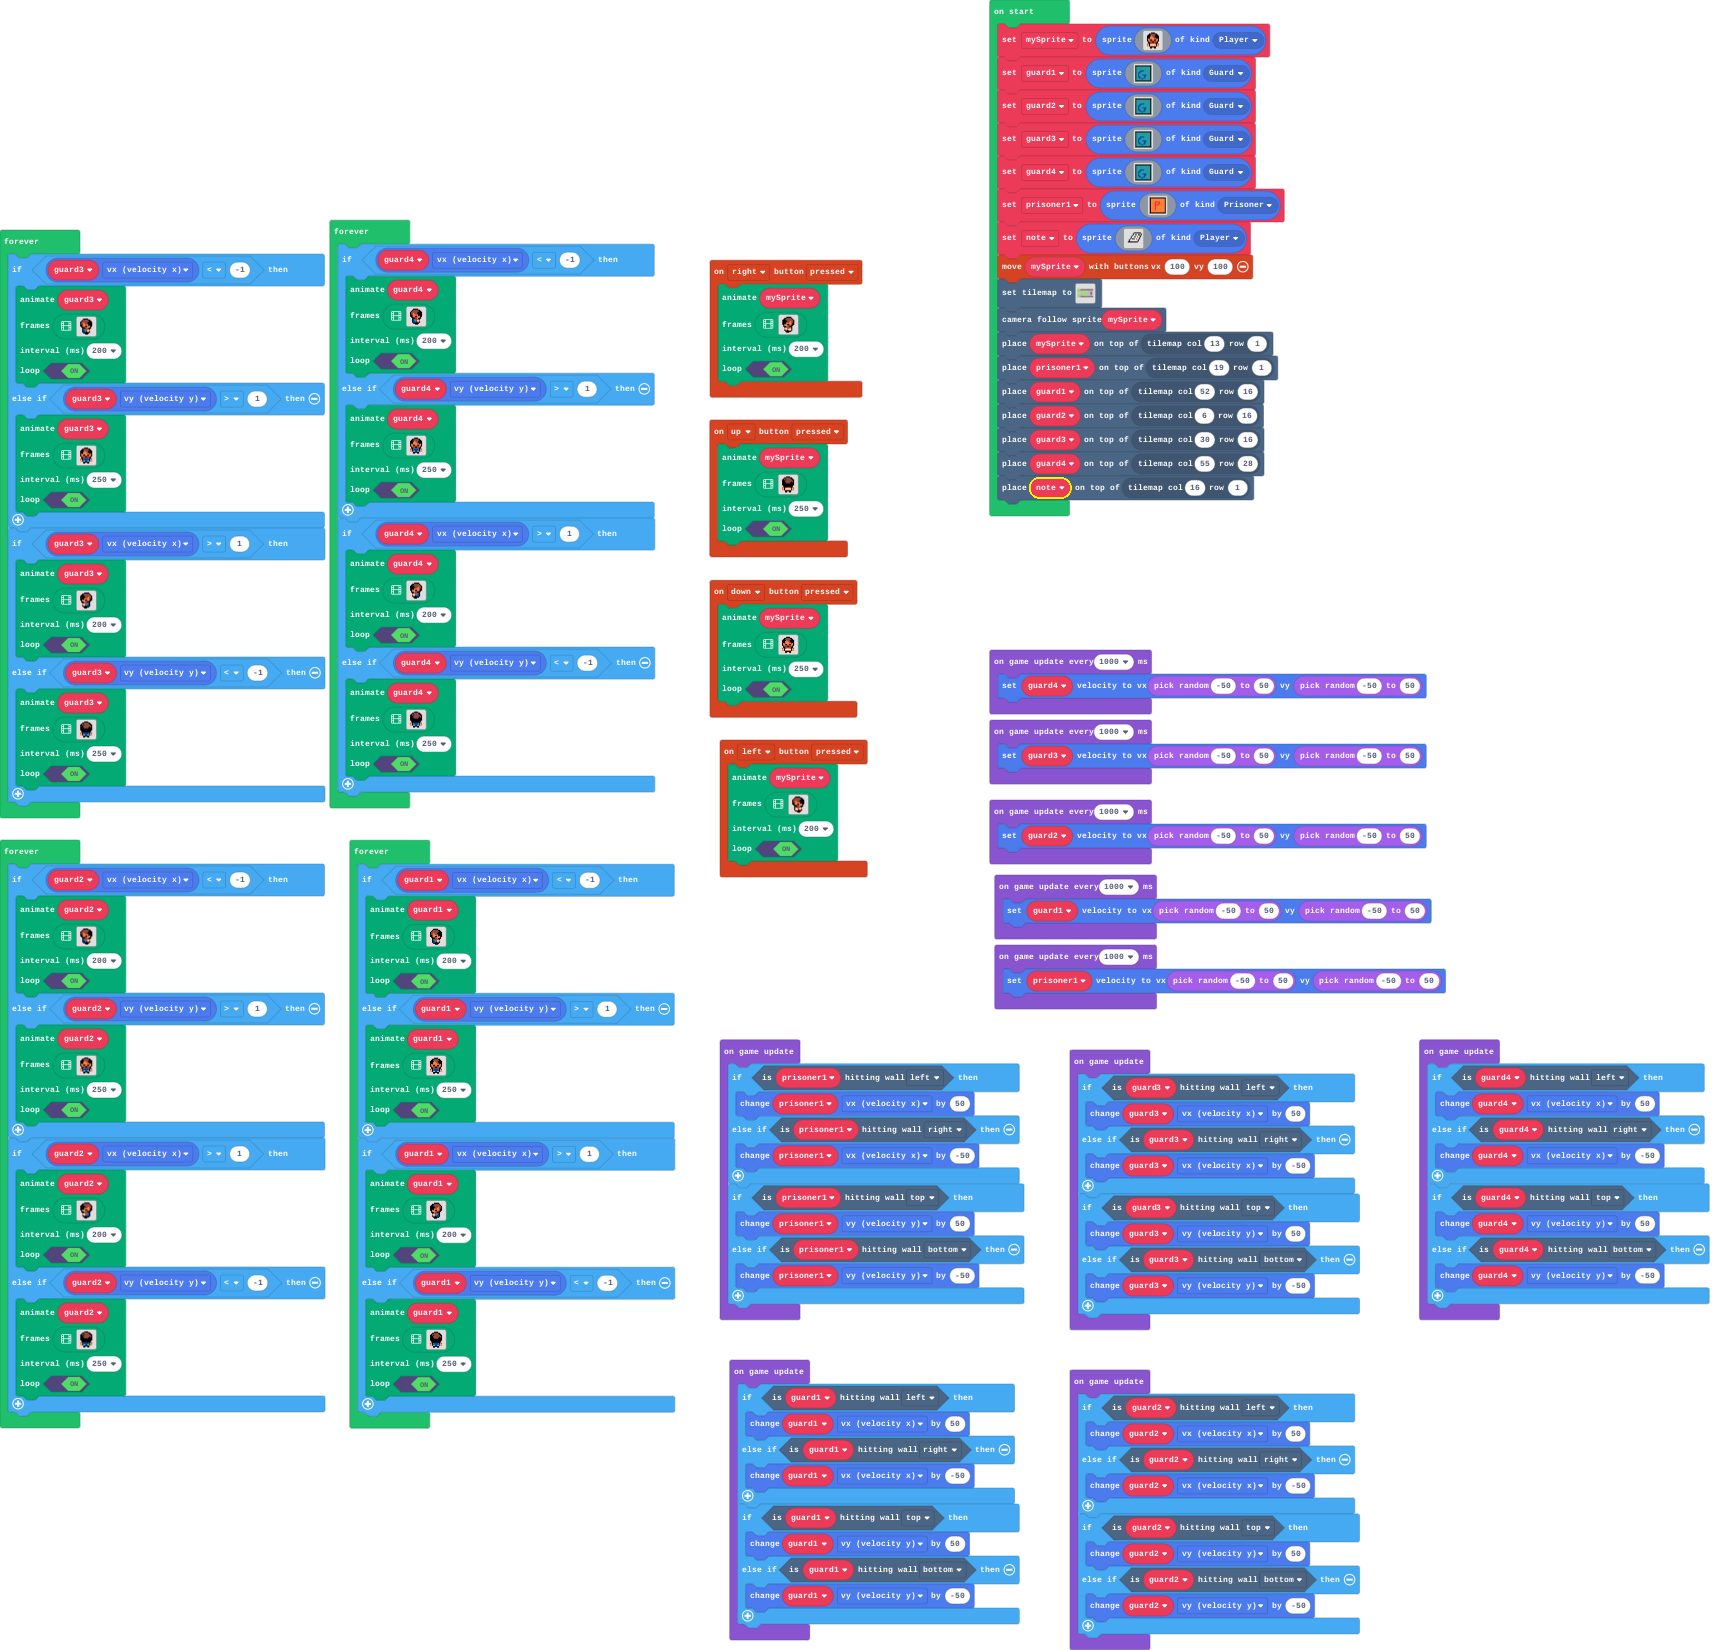
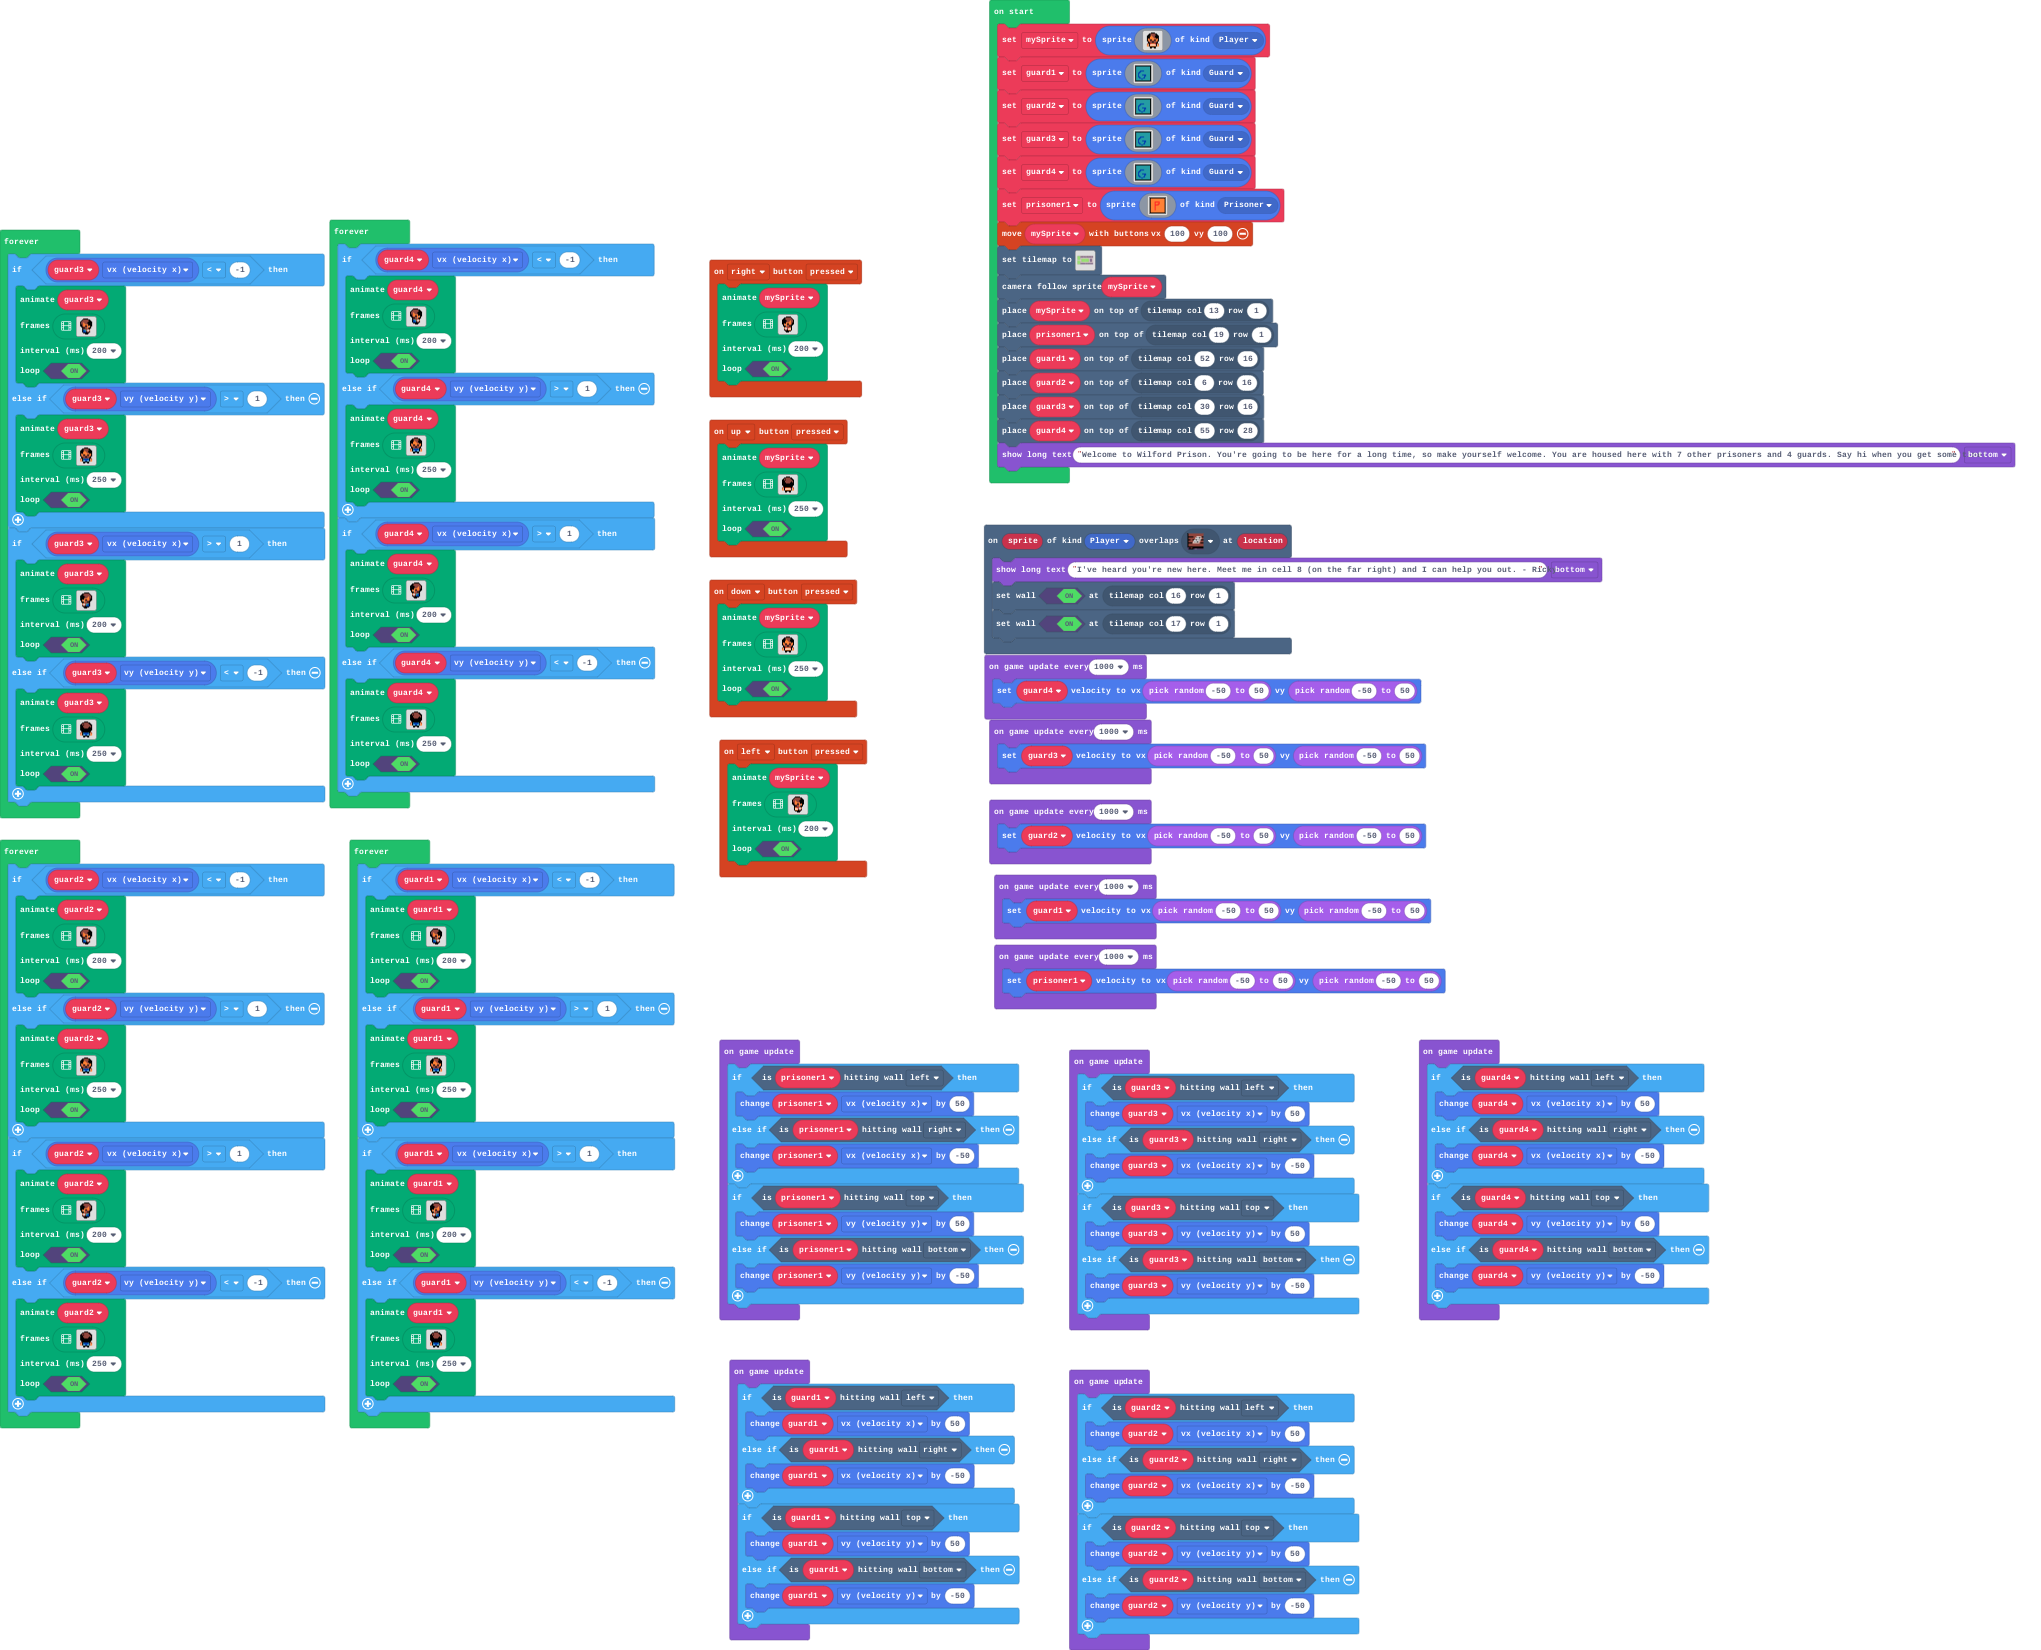
Added the intro

diff --git a/tilemap.g.ts b/tilemap.g.ts
@@ -64,44 +64,11 @@ namespace myTiles {
     export const tile31 = image.ofBuffer(hex``);
     //% fixedInstance jres blockIdentity=images._tile
     export const tile30 = image.ofBuffer(hex``);
+    //% fixedInstance jres blockIdentity=images._tile
+    export const tile32 = image.ofBuffer(hex``);
 
     helpers._registerFactory("tilemap", function(name: string) {
         switch(helpers.stringTrim(name)) {
-            case "level1":
[1 lines of base64/hex data omitted]
-2222222222222222222222222222222222222222222222222222222222222
-2...........2.....2.....2.....2.....2.....2.....2.....2.....2
-2...........2.....2.....2.....2.....2.....2.....2.....2.....2
-2...........2.....2.....2.....2.....2.....2.....2.....2.....2
-2...........2.....2.....2.....2.....2.....2.....2.....2.....2
-2...........2.....2.....2.....2.....2.....2.....2.....2.....2
-2...........222.22222.22222.22222.22222.22222.22222.22222.222
-2...........2...............................................2
-2...........2...............................................2
-2...........2...............................................2
-2...........2...2222.....................2222...222222222...2
-2...........2...2...........................2...2.......2...2
-2...........2...2...........................2...2.......2...2
-2...........2...2...........................2...2.......2...2
-2...........2...................................2.......2...2
-2.......................................................2...2
-2.......................................................2...2
-2.......................................................2...2
-2...........2...................................2.......2...2
-2...........2...2...........................2...2.......2...2
-2...........2...2...........................2...2.......2...2
-2...........2...2...........................2...2.......2...2
-2...........2...2222.....................2222...222222222...2
-2...........2...............................................2
-2...........2...............................................2
-2...........2...............................................2
-2...........222222222...22222222222.2222222..222222222..22222
-2...........2...................2.....2..........2..........2
-2...........2...................2.....2..........2..........2
-2...........2...................2.....2..........2..........2
-2...........2...................2.....2..........2..........2
-2222222222222222222222222222222222222222222222222222222222222
-`, [myTiles.transparency16,myTiles.tile9,myTiles.tile13,myTiles.tile16,myTiles.tile17,myTiles.tile20,myTiles.tile21,myTiles.tile7,myTiles.tile8,sprites.castle.tileGrass1,myTiles.tile10,myTiles.tile11,myTiles.tile12,myTiles.tile15,myTiles.tile6,myTiles.tile23,sprites.dungeon.darkGroundNorthWest1,sprites.dungeon.floorLight4,sprites.castle.tileGrass3,sprites.castle.tileGrass2,sprites.dungeon.floorLightMoss,sprites.dungeon.floorLight5,sprites.dungeon.floorLight1,myTiles.tile25,myTiles.tile26,myTiles.tile27,myTiles.tile28,myTiles.tile29,myTiles.tile31,myTiles.tile30], TileScale.Sixteen);
             case "level2":
             case "level2":return tiles.createTilemap(hex`1000100000000000000000000000000000000000000000000000000000000000000000000000000000000000000000000000000000000000000000000000000000000000000000000000000000000000000000000000000000000000000000000000000000000000000000000000000000000000000000000000000000000000000000000000000000000000000000000000000000000000000000000000000000000000000000000000000000000000000000000000000000000000000000000000000000000000000000000000000000000000000000000000000000000000000000000000000000000000000000000000000000000000000000000000000000000000`, img`
 . . . . . . . . . . . . . . . . 
@@ -142,6 +109,79 @@ namespace myTiles {
 `, [myTiles.transparency16], TileScale.Sixteen);
             case "level4":
             case "level4":return tiles.createTilemap(hex`1000100000000000000000000000000000000000000000000000000000000000000000000000000000000000000000000000000000000000000000000000000000000000000000000000000000000000000000000000000000000000000000000000000000000000000000000000000000000000000000000000000000000000000000000000000000000000000000000000000000000000000000000000000000000000000000000000000000000000000000000000000000000000000000000000000000000000000000000000000000000000000000000000000000000000000000000000000000000000000000000000000000000000000000000000000000000000`, img`
+. . . . . . . . . . . . . . . . 
+. . . . . . . . . . . . . . . . 
+. . . . . . . . . . . . . . . . 
+. . . . . . . . . . . . . . . . 
+. . . . . . . . . . . . . . . . 
+. . . . . . . . . . . . . . . . 
+. . . . . . . . . . . . . . . . 
+. . . . . . . . . . . . . . . . 
+. . . . . . . . . . . . . . . . 
+. . . . . . . . . . . . . . . . 
+. . . . . . . . . . . . . . . . 
+. . . . . . . . . . . . . . . . 
+. . . . . . . . . . . . . . . . 
+. . . . . . . . . . . . . . . . 
+. . . . . . . . . . . . . . . . 
+. . . . . . . . . . . . . . . . 
+`, [myTiles.transparency16], TileScale.Sixteen);
+            case "level5":
+            case "level5":return tiles.createTilemap(hex`1000100000000000000000000000000000000000000000000000000000000000000000000000000000000000000000000000000000000000000000000000000000000000000000000000000000000000000000000000000000000000000000000000000000000000000000000000000000000000000000000000000000000000000000000000000000000000000000000000000000000000000000000000000000000000000000000000000000000000000000000000000000000000000000000000000000000000000000000000000000000000000000000000000000000000000000000000000000000000000000000000000000000000000000000000000000000000`, img`
+. . . . . . . . . . . . . . . . 
+. . . . . . . . . . . . . . . . 
+. . . . . . . . . . . . . . . . 
+. . . . . . . . . . . . . . . . 
+. . . . . . . . . . . . . . . . 
+. . . . . . . . . . . . . . . . 
+. . . . . . . . . . . . . . . . 
+. . . . . . . . . . . . . . . . 
+. . . . . . . . . . . . . . . . 
+. . . . . . . . . . . . . . . . 
+. . . . . . . . . . . . . . . . 
+. . . . . . . . . . . . . . . . 
+. . . . . . . . . . . . . . . . 
+. . . . . . . . . . . . . . . . 
+. . . . . . . . . . . . . . . . 
+. . . . . . . . . . . . . . . . 
+`, [myTiles.transparency16], TileScale.Sixteen);
+            case "level1":
[1 lines of base64/hex data omitted]
+2222222222222222222222222222222222222222222222222222222222222
+2...........2.....2.....2.....2.....2.....2.....2.....2.....2
+2...........2.....2.....2.....2.....2.....2.....2.....2.....2
+2...........2.....2.....2.....2.....2.....2.....2.....2.....2
+2...........2.....2.....2.....2.....2.....2.....2.....2.....2
+2...........2.....2.....2.....2.....2.....2.....2.....2.....2
+2...........222.22222.22222.22222.22222.22222.22222.22222.222
+2...........2...............................................2
+2...........2...............................................2
+2...........2...............................................2
+2...........2...2222.....................2222...222222222...2
+2...........2...2...........................2...2.......2...2
+2...........2...2...........................2...2.......2...2
+2...........2...2...........................2...2.......2...2
+2...........2...................................2.......2...2
+2.......................................................2...2
+2.......................................................2...2
+2.......................................................2...2
+2...........2...................................2.......2...2
+2...........2...2...........................2...2.......2...2
+2...........2...2...........................2...2.......2...2
+2...........2...2...........................2...2.......2...2
+2...........2...2222.....................2222...222222222...2
+2...........2...............................................2
+2...........2...............................................2
+2...........2...............................................2
+2...........222222222...22222222222.2222222..222222222..22222
+2...........2...................2.....2..........2..........2
+2...........2...................2.....2..........2..........2
+2...........2...................2.....2..........2..........2
+2...........2...................2.....2..........2..........2
+2222222222222222222222222222222222222222222222222222222222222
+`, [myTiles.transparency16,myTiles.tile9,myTiles.tile13,myTiles.tile16,myTiles.tile17,myTiles.tile20,myTiles.tile21,myTiles.tile7,myTiles.tile8,sprites.castle.tileGrass1,myTiles.tile10,myTiles.tile11,myTiles.tile12,myTiles.tile15,myTiles.tile6,myTiles.tile23,sprites.dungeon.darkGroundNorthWest1,sprites.dungeon.floorLight4,sprites.castle.tileGrass3,sprites.castle.tileGrass2,sprites.dungeon.floorLightMoss,sprites.dungeon.floorLight5,sprites.dungeon.floorLight1,myTiles.tile25,myTiles.tile26,myTiles.tile27,myTiles.tile28,myTiles.tile29,myTiles.tile31,myTiles.tile30,myTiles.tile32], TileScale.Sixteen);
+            case "level6":
+            case "level6":return tiles.createTilemap(hex`1000100000000000000000000000000000000000000000000000000000000000000000000000000000000000000000000000000000000000000000000000000000000000000000000000000000000000000000000000000000000000000000000000000000000000000000000000000000000000000000000000000000000000000000000000000000000000000000000000000000000000000000000000000000000000000000000000000000000000000000000000000000000000000000000000000000000000000000000000000000000000000000000000000000000000000000000000000000000000000000000000000000000000000000000000000000000000`, img`
 . . . . . . . . . . . . . . . . 
 . . . . . . . . . . . . . . . . 
 . . . . . . . . . . . . . . . . 
@@ -228,6 +268,8 @@ namespace myTiles {
             case "tile31":return tile31;
             case "myTile27":
             case "tile30":return tile30;
+            case "myTile29":
+            case "tile32":return tile32;
         }
         return null;
     })

diff --git a/main.ts b/main.ts
@@ -120,6 +120,11 @@ controller.left.onEvent(ControllerButtonEvent.Pressed, function () {
     true
     )
 })
+scene.onOverlapTile(SpriteKind.Player, assets.tile`myTile29`, function (sprite, location) {
+    game.showLongText("I've heard you're new here. Meet me in cell 8 (on the far right) and I can help you out. - Ricky", DialogLayout.Bottom)
+    tiles.setWallAt(tiles.getTileLocation(16, 1), true)
+    tiles.setWallAt(tiles.getTileLocation(17, 1), true)
+})
 controller.right.onEvent(ControllerButtonEvent.Pressed, function () {
     animation.runImageAnimation(
     mySprite,
@@ -330,24 +335,6 @@ let prisoner1 = sprites.create(img`
     f 4 4 4 4 4 4 4 4 4 4 4 4 4 4 f 
     f f f f f f f f f f f f f f f f 
     `, SpriteKind.Prisoner)
-let note = sprites.create(img`
-    . . . . . . . . . . . . . . . . 
-    . . . . . . . . . . . . . . . . 
-    . . . . . . . . f f f f f f f . 
-    . . . . . . . f 1 1 1 1 d d d f 
-    . . . . . . . f 1 f f 1 f f d f 
-    . . . . . . f 1 1 1 1 1 1 d f . 
-    . . . . . f 1 1 f f 1 f 1 d f . 
-    . . . . . f 1 1 1 1 1 1 d f . . 
-    . . . . f 1 f f f 1 f 1 d f . . 
-    . . . f d 1 1 1 1 1 1 d f . . . 
-    . . . f d d d d d d d d f . . . 
-    . . f f f f f f f f f f . . . . 
-    . . . . . . . . . . . . . . . . 
-    . . . . . . . . . . . . . . . . 
-    . . . . . . . . . . . . . . . . 
-    . . . . . . . . . . . . . . . . 
-    `, SpriteKind.Player)
 controller.moveSprite(mySprite, 100, 100)
 tiles.setTilemap(tilemap`level1`)
 scene.cameraFollowSprite(mySprite)
@@ -357,7 +344,7 @@ tiles.placeOnTile(guard1, tiles.getTileLocation(52, 16))
 tiles.placeOnTile(guard2, tiles.getTileLocation(6, 16))
 tiles.placeOnTile(guard3, tiles.getTileLocation(30, 16))
 tiles.placeOnTile(guard4, tiles.getTileLocation(55, 28))
-tiles.placeOnTile(note, tiles.getTileLocation(16, 1))
+game.showLongText("Welcome to Wilford Prison. You're going to be here for a long time, so make yourself welcome. You are housed here with 7 other prisoners and 4 guards. Say hi when you get some time!", DialogLayout.Bottom)
 game.onUpdate(function () {
     if (prisoner1.isHittingTile(CollisionDirection.Left)) {
         prisoner1.vx += 50

diff --git a/images.g.ts b/images.g.ts
@@ -22,6 +22,25 @@ e 4 f 2 4 4 4 4 2 f 4 e
 . . . f f f f f f . . . 
 . . . f f . . f f . . . 
 `;
+            case ")?QSmieI)[r3rLKg8gT?":
+            case "note":return img`
+. . . . . . . . . . . . . . . . 
+. . . . . . . . . . . . . . . . 
+. . . . . . . . f f f f f f f . 
+. . . . . . . f 1 1 1 1 d d d f 
+. . . . . . . f 1 f f 1 f f d f 
+. . . . . . f 1 1 1 1 1 1 d f . 
+. . . . . f 1 1 f f 1 f 1 d f . 
+. . . . . f 1 1 1 1 1 1 d f . . 
+. . . . f 1 f f f 1 f 1 d f . . 
+. . . f d 1 1 1 1 1 1 d f . . . 
+. . . f d d d d d d d d f . . . 
+. . f f f f f f f f f f . . . . 
+. . . . . . . . . . . . . . . . 
+. . . . . . . . . . . . . . . . 
+. . . . . . . . . . . . . . . . 
+. . . . . . . . . . . . . . . . 
+`;
         }
         return null;
     })
